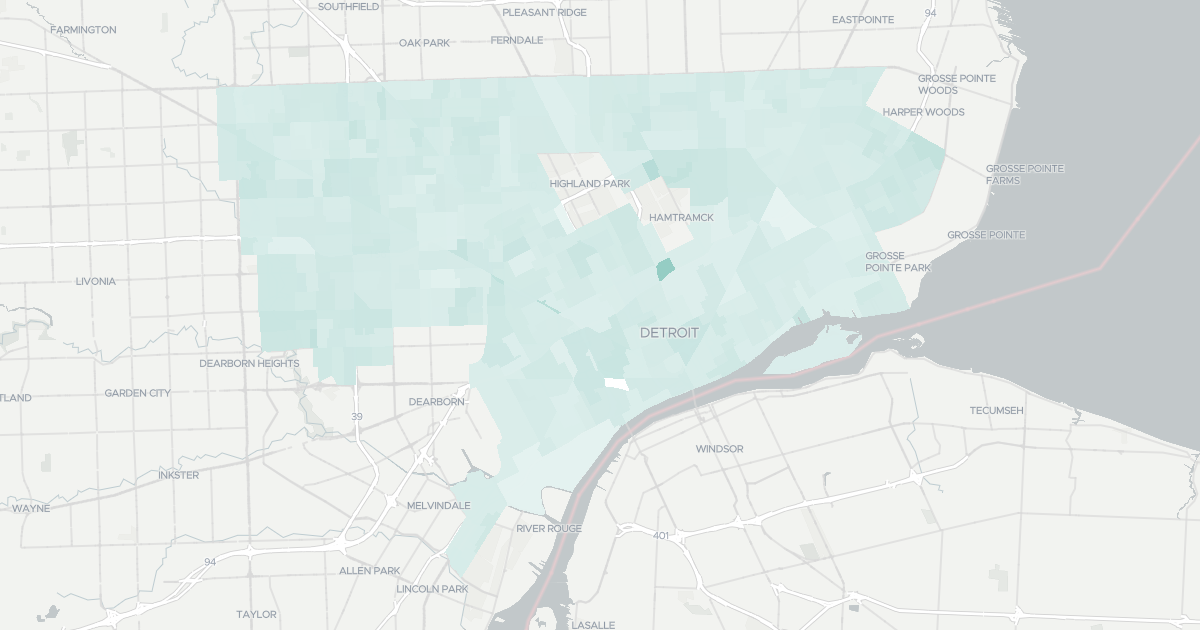
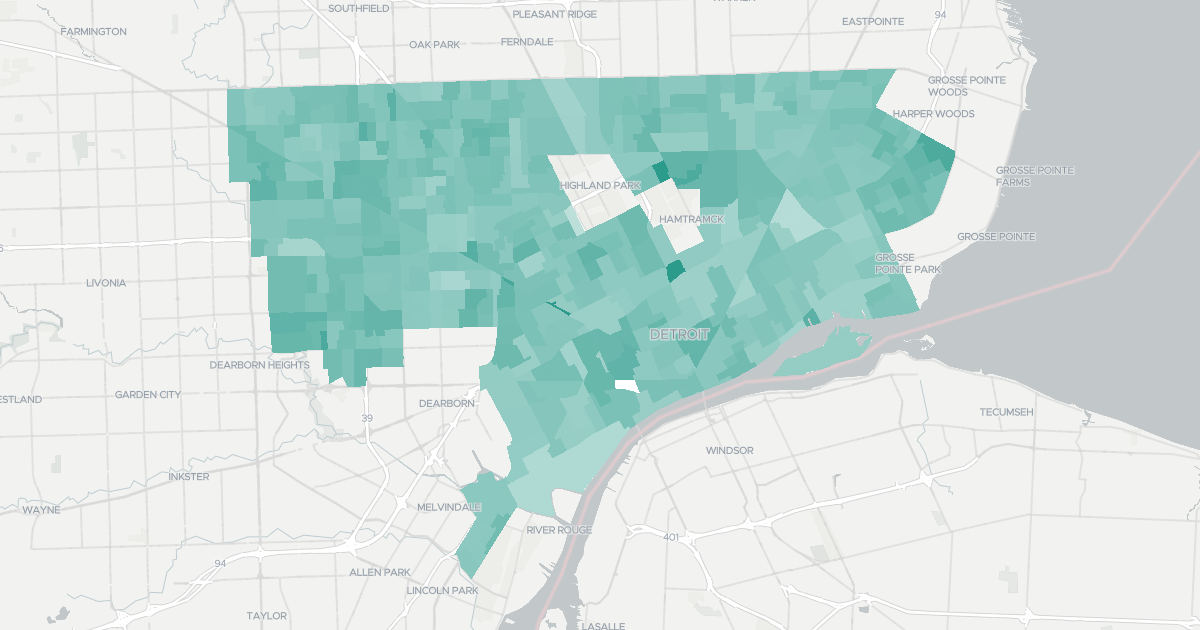
make the scale dynamic

diff --git a/src/js/components/map.jsx b/src/js/components/map.jsx
@@ -60,7 +60,7 @@ const aggregateElection = (data, election, race) => {
   return { candidates, candidateColors, electionResults }
 }
 
-const createPrecinctLayerDefinition = (data, election, race, year) => ({
+const createPrecinctLayerDefinition = (data, election, race, year, maxColorScale) => ({
   layerDefinition: {
     id: "precincts",
     source: `precincts-${getPrecinctYear(election, +year)}`,
@@ -84,7 +84,7 @@ const createPrecinctLayerDefinition = (data, election, race, year) => ({
           ["feature-state", "colorValue"],
           0,
           "#ffffff",
-          100,
+          maxColorScale,
           ["feature-state", "color"],
         ],
       ],
@@ -104,7 +104,7 @@ const createPrecinctLayerDefinition = (data, election, race, year) => ({
   legendData: aggregateElection(data, election, race),
 })
 
-function setFeatureData(map, dataCols, source, feature) {
+function processFeatureData(dataCols, feature) {
   const featureData = fromEntries(
     Object.entries(feature).filter(([col]) => dataCols.includes(col))
   )
@@ -115,6 +115,21 @@ function setFeatureData(map, dataCols, source, feature) {
     featureDataEntries[featureDataValues.indexOf(colorValue)][0]
   )
 
+  return {
+    feature,
+    colorValue,
+    color: getColor(featureDataEntries[colorIndex][0], colorIndex),
+  }
+}
+
+function getMaxColorScale(values) {
+  const sortedAsc = [...values].sort((a, b) => a - b)
+  const index = Math.ceil((0.9 * sortedAsc.length) - 1)
+  // Add 10% to the 90th percentile value, but cap to 100%
+  return Math.min(100, sortedAsc[index] + 10)
+}
+
+function setFeatureData(map, source, feature, colorValue, color) {
   map.setFeatureState(
     {
       source,
@@ -122,8 +137,8 @@ function setFeatureData(map, dataCols, source, feature) {
       id: feature.id,
     },
     {
-      color: getColor(featureDataEntries[colorIndex][0], colorIndex),
-      colorValue: colorValue,
+      color,
+      colorValue,
       ...feature,
     }
   )
@@ -182,13 +197,17 @@ const Map = (props) => {
     )
     if (canceled) return
 
+    let dataCols = getDataCols(data[0] || [])
+    const featureData = data.map((feature) => processFeatureData(dataCols, feature))
+    const maxColorScale = getMaxColorScale(featureData.map(({ colorValue}) => colorValue))
+
     const def = createPrecinctLayerDefinition(
       data,
       props.election,
       props.race,
-      props.year
+      props.year,
+      maxColorScale,
     )
-    let dataCols = getDataCols(data[0] || [])
     setMapStore({ ...def.legendData })
     // Close popup on layer change
     setPopup({ click: false, hover: false })
@@ -199,8 +218,8 @@ const Map = (props) => {
         source: mapSource(),
         sourceLayer: "precincts",
       })
-      data.forEach((feature) => {
-        setFeatureData(map, dataCols, mapSource(), feature)
+      featureData.forEach(({ feature, colorValue, color }) => {
+        setFeatureData(map, mapSource(), feature, colorValue, color)
       })
       mapStore.map.addLayer(def.layerDefinition, "place_other")
     }

diff --git a/src/js/elections.js b/src/js/elections.js
@@ -49,9 +49,9 @@ const elections = {
       86: "DEM COUNTY COMMISSIONER 7",
       178: "DEM TREASURER DEM",
       182: "NON  JUDGE OF CIRCUIT",
-      188: "    PROPOSITION A - AUDIT",
-      189: "    PROPOSITION P - PARKS",
-      1907: "    PROPOSAL L- LIBRARY O",
+      188: "PROPOSITION A - AUDIT",
+      189: "PROPOSITION P - PARKS",
+      1907: "PROPOSAL L- LIBRARY O",
     },
   },
   "2024-general": {
@@ -89,13 +89,13 @@ const elections = {
       45: "COUNTY COMMISSIONER 5TH D",
       46: "COUNTY COMMISSIONER 6TH D",
       47: "COUNTY COMMISSIONER 7TH D",
-      1172: " JUSTICE OF THE SUPR",
-      1165: " JUSTICE OF SUPREME ",
-      94: " JUDGE OF COURT OF A",
-      95: " JUDGE OF CIRCUIT CO",
-      1193: " JUDGE OF CIRCUIT CO",
-      96: " JUDGE OF CIRCUIT CO",
-      97: " JUDGE OF PROBATE CO",
+      1172: "JUSTICE OF THE SUPR",
+      1165: "JUSTICE OF SUPREME ",
+      94: "JUDGE OF COURT OF A",
+      95: "JUDGE OF CIRCUIT CO",
+      1193: "JUDGE OF CIRCUIT CO",
+      96: "JUDGE OF CIRCUIT CO",
+      97: "JUDGE OF PROBATE CO",
       124: "BOARD OF TRUSTEES MEMBER ",
       125: "BOARD OF TRUSTEES MEMBER ",
       136: "BOARD MEMBER DETROIT PUBL",
@@ -105,10 +105,10 @@ const elections = {
       1162: "REGENT OF THE UNIVERSITY ",
       1163: "TRUSTEE OF MICHIGAN STATE",
       1164: "GOVERNOR OF WAYNE STATE U",
-      98: " JUDGE OF PROBATE CO",
-      108: " JUDGE OF DISTRICT C",
-      109: " JUDGE OF DISTRICT C",
-      1169: " JUDGE OF DISTRICT C",
+      98: "JUDGE OF PROBATE CO",
+      108: "JUDGE OF DISTRICT C",
+      109: "JUDGE OF DISTRICT C",
+      1169: "JUDGE OF DISTRICT C",
     },
   },
 }
